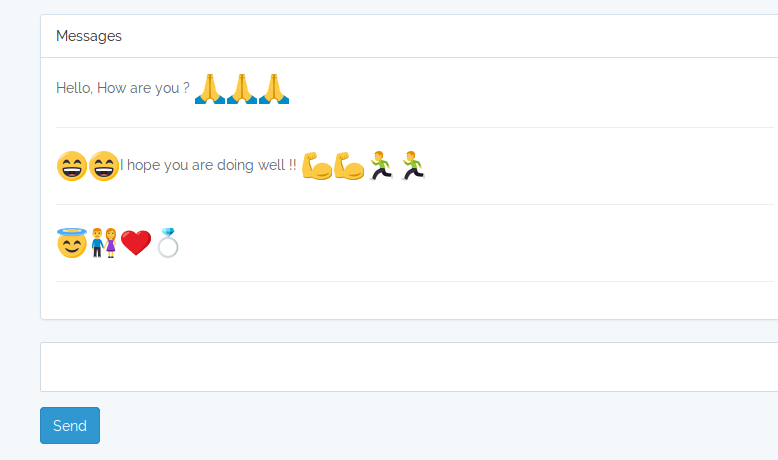
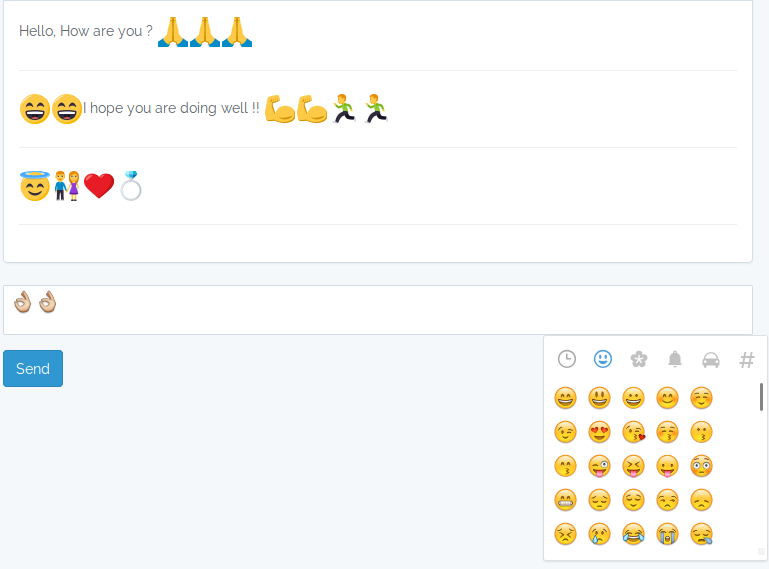
final commit

diff --git a/ajax.php b/ajax.php
@@ -1,8 +1,6 @@
 <?php
-
 require 'init.php';
-// dd($_POST);
-// header('Content-Type: application/json');
+
 $message = trim($_POST['content']);
 
 if($message != "")

diff --git a/README.md b/README.md
@@ -1,3 +1,10 @@
-# Handle Emojies in PHP Mysql
+# Web Emojies Demo
 
-![Screenshot](https://github.com/jagroop/php-emoji-demo/blob/master/screenshot.png)
+> PHP & Javascript
+
+![Emojies](https://github.com/jagroop/php-emoji-demo/blob/master/screenshot.png)
+
+# Packages Used
+
+- [EmojiPicker](https://github.com/OneSignal/emoji-picker)
+- [EmojiOne](https://github.com/emojione/emojione)
